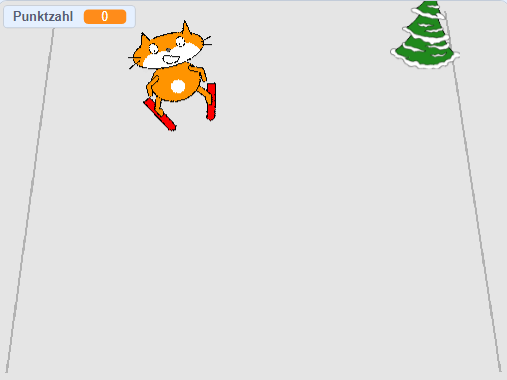
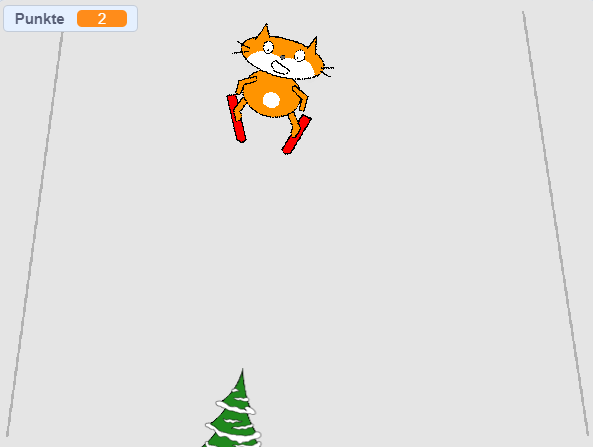
Correct errors

diff --git a/de-DE/step_8.md b/de-DE/step_8.md
@@ -27,7 +27,7 @@ when green flag clicked
 
 --- task ---
 
-Ändere den Code so, dass wenn das Hindernis an den oberen Rand des Bildschirms gelangt, `Punktzahl um 1 geändert`{:class="block3variables"} wird.
+Ändere den Code so, dass wenn das Hindernis an den oberen Rand des Bildschirms gelangt, `Punkte um 1 geändert`{:class="block3variables"} wird.
 
 Das aktualisierte Skript für die Figur sollte folgendermaßen aussehen:
 
